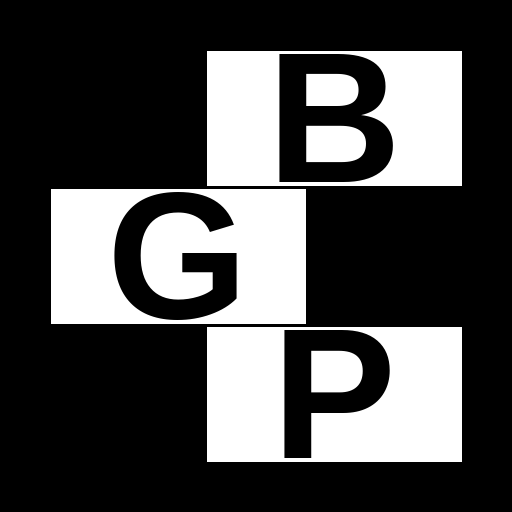
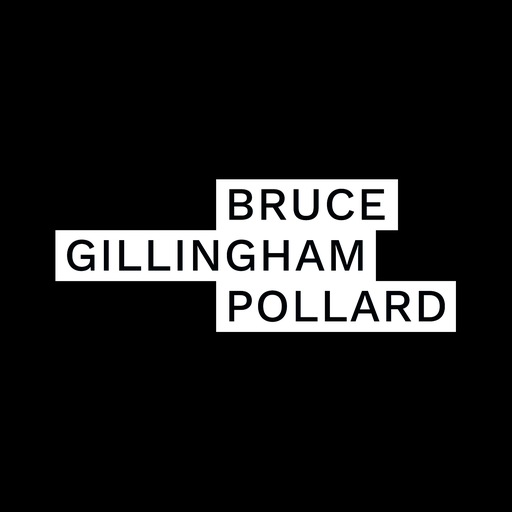
Use the actual BGP wordmark on the app badge
Swap the BGP initials monogram for the real Bruce Gillingham Pollard
wordmark — white-on-black, scaled to fill each icon with tight
padding for the apple-touch / favicon sizes and the standard 10%
safe zone for the maskable PWA icons. Bump sw.js cache to v22.

diff --git a/client/public/sw.js b/client/public/sw.js
@@ -1,4 +1,4 @@
-var CACHE_NAME = 'bgp-v21';
+var CACHE_NAME = 'bgp-v22';
 var SHARE_CACHE = 'bgp-share-target';
 var PRECACHE_URLS = [
   '/',
